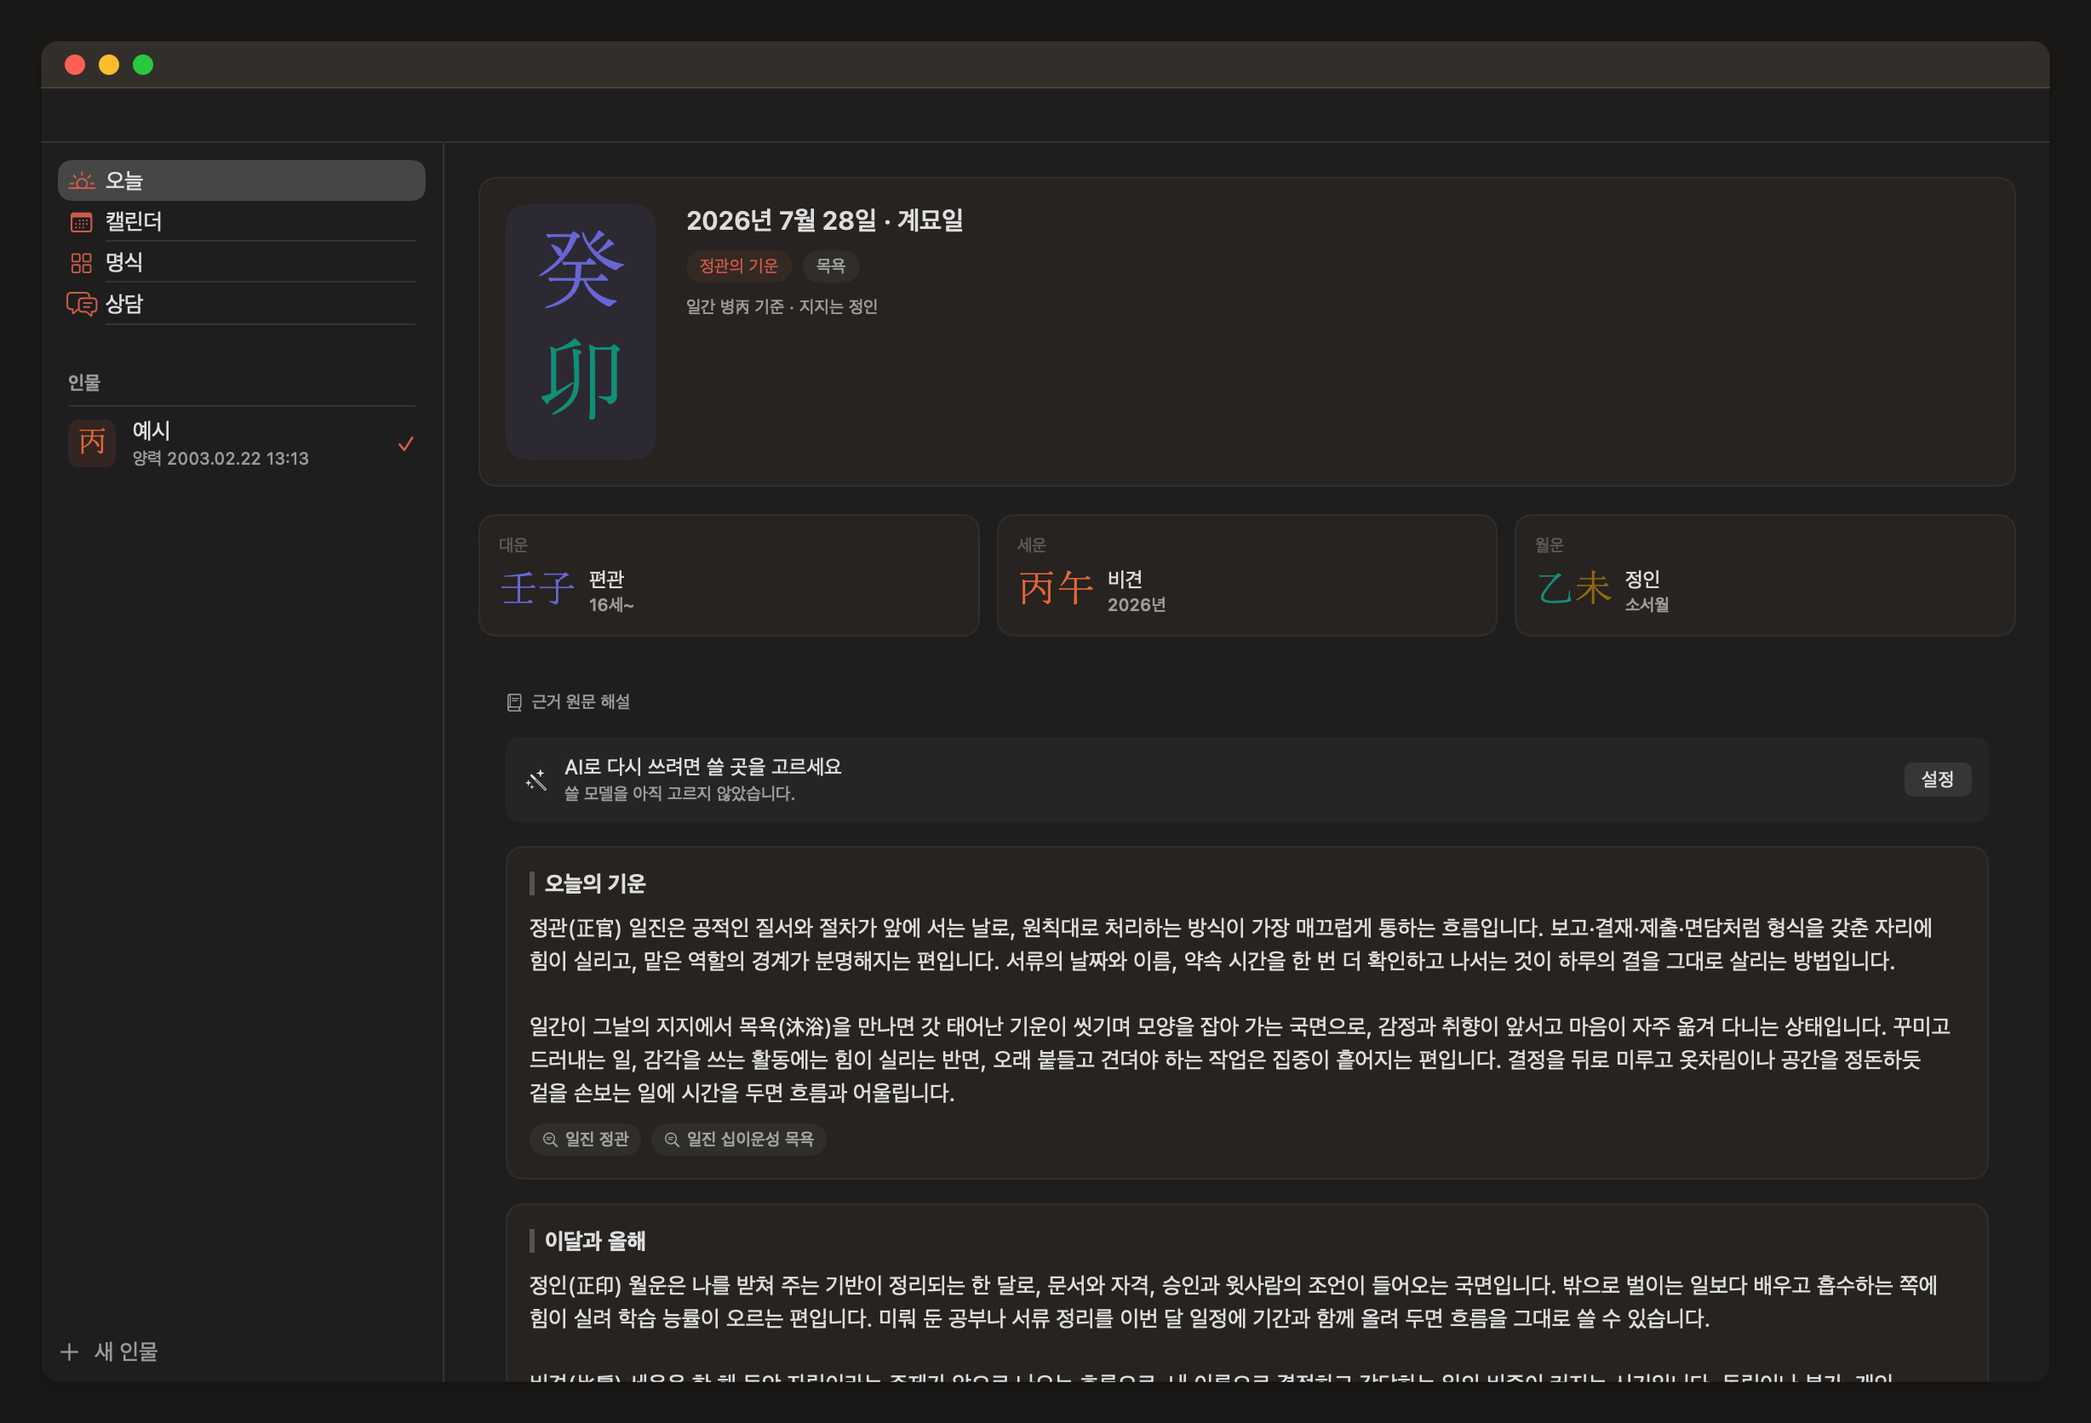
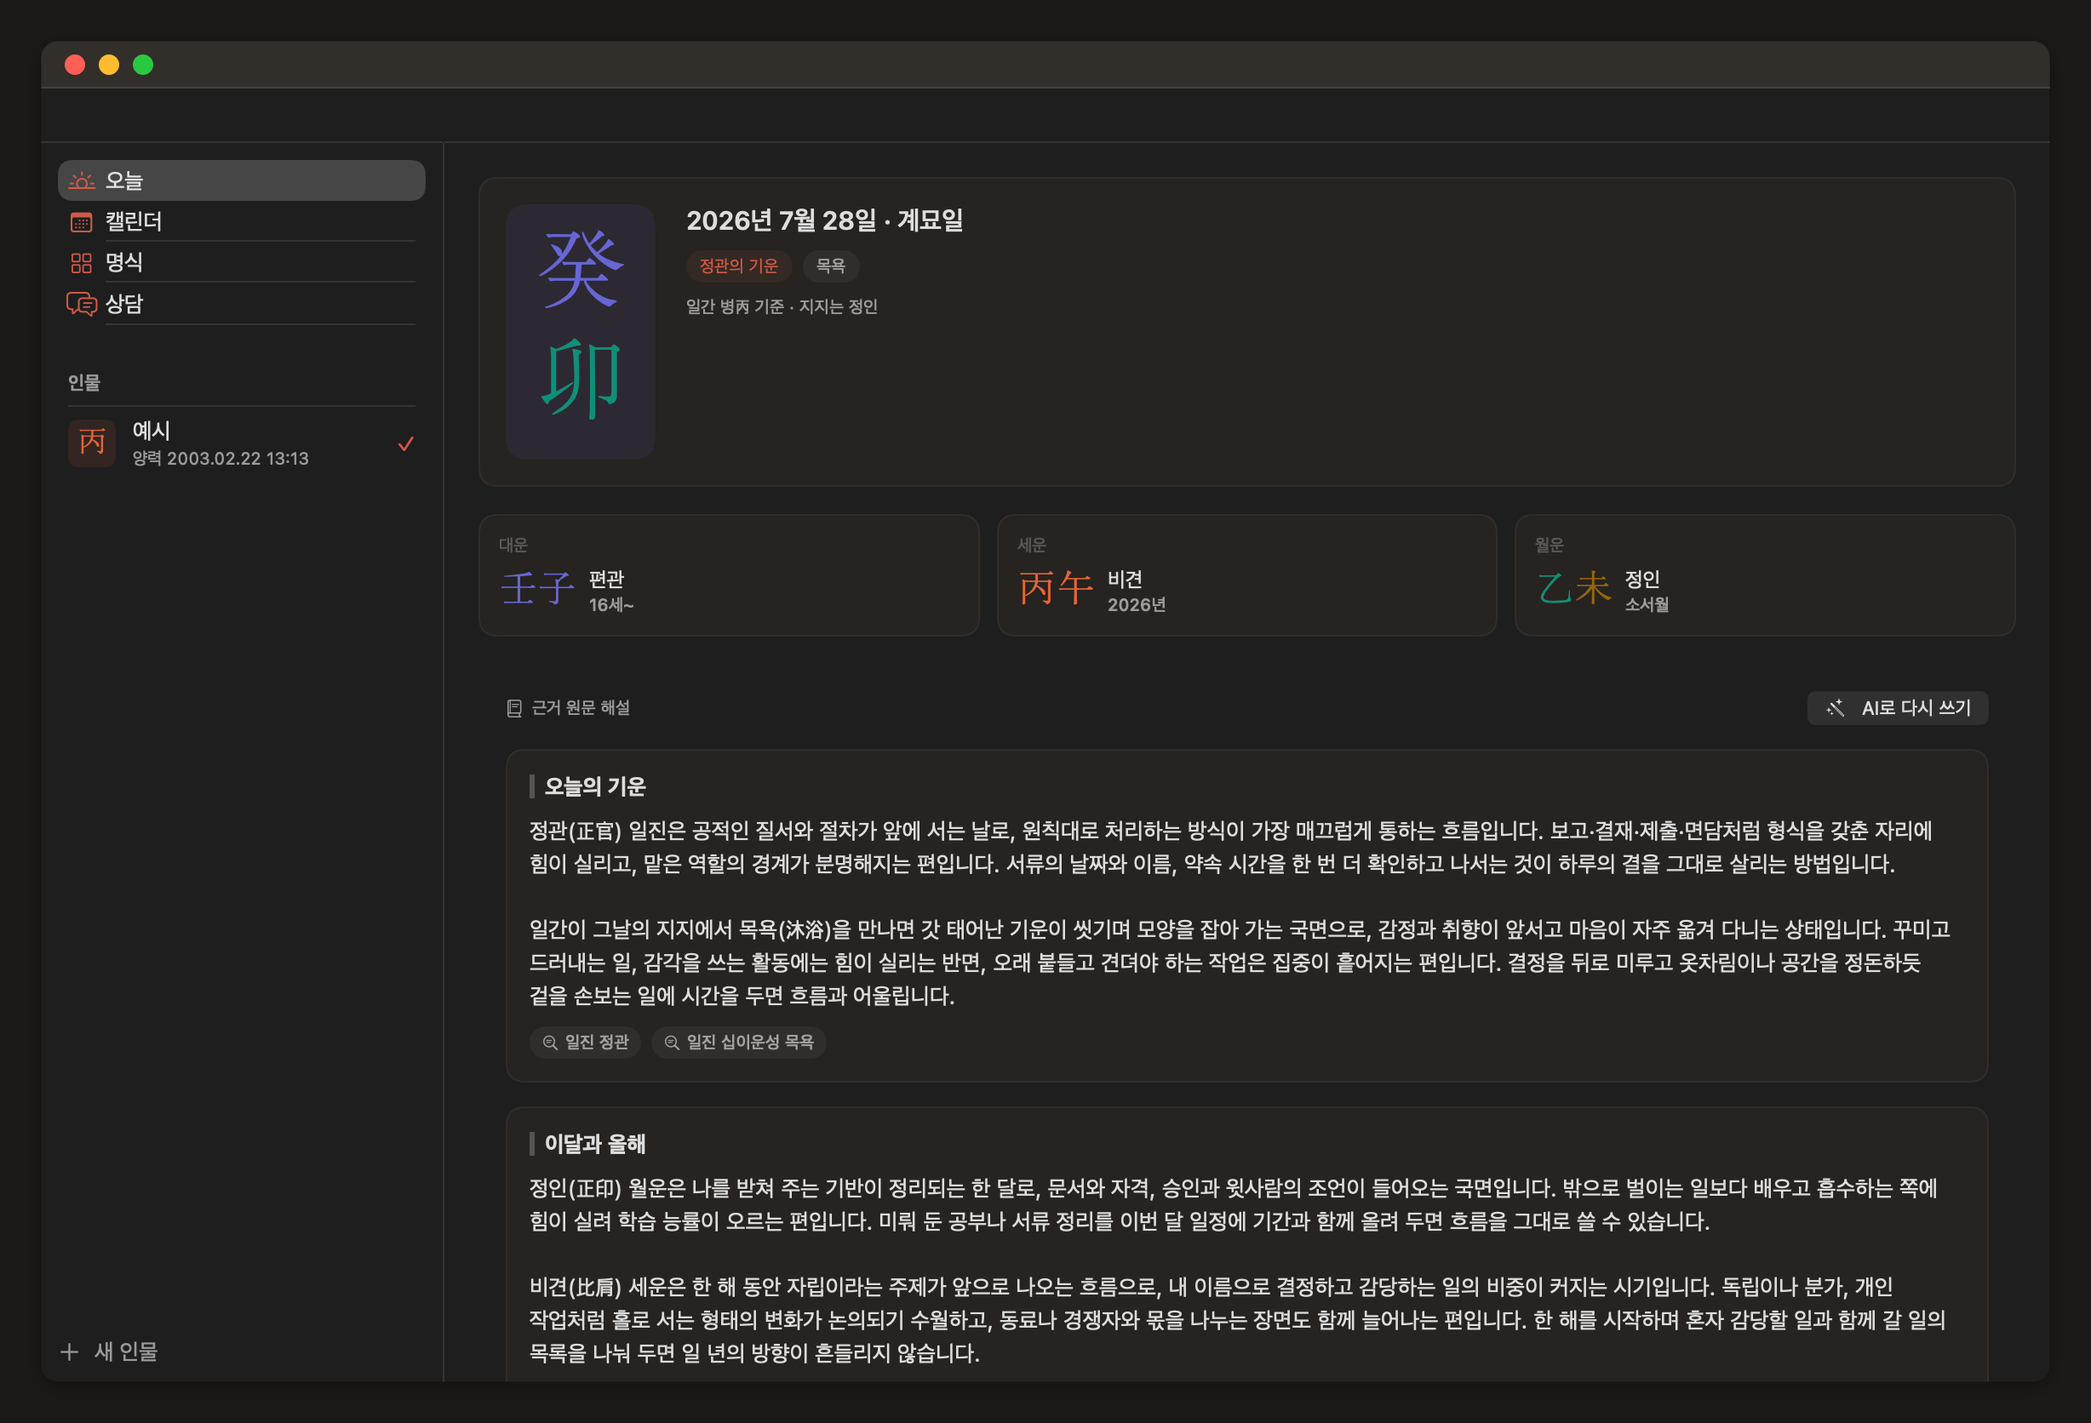
docs: 원격 제공자와 새 상담 화면에 맞춰 문서와 스크린샷을 최신화한다
## 공개 페이지의 프라이버시 서술을 고친다

`web/index.html`이 "생년월일시, 해석, 상담 기록이 네트워크로 나가지
않습니다"라고 단정하고 있었다. 0.3.0부터 조건부이고, 거짓일 때가 하필
사용자가 알아야 하는 경우다. 기본 설정에서는 참이라는 것과, 제공자를 지정한
경우 무엇이 나가고 무엇이 나가지 않는지를 나눠 적었다.

"모델은 이 Mac에서 돌아갑니다"도 같은 이유로 고쳤다. FAQ에 제공자 연결 항목을
추가하고, 출력 상한을 보내지 않는 이유를 적었다.

## 스크린샷

상담 대표 이미지가 빈 폼이었다. 답변이 있는 화면으로 바꿨다 — 이 기능의
이미지에 답이 없다는 사실 자체가 신호였다.

캡처가 스스로 모순되던 것도 고쳤다. 풀이 하단에는 "Gemma 4 E2B가 썼다"고
적혀 있는데 컴포저에는 "쓸 모델을 아직 고르지 않았습니다"가 떴다.
`ModelManager.seedForCapture()`가 메모리에만 반영하며, 사용자 설정을 읽지도
쓰지도 않는 것을 확인했다.

web 자산 네 장을 같은 파이프라인(1800px + pngquant + cwebp)으로 다시 만들었다.
처음에는 `magick PNG8`로 줄였는데 말풍선 배경에 디더링 반점이 보였다 —
마케팅 페이지에서 눈에 띈다.

## 문서

- `HACKING.md`: 구조 트리에 `RemoteLLM`을 넣고 `swift test` 명령을 적었다.
  왜 앱 타깃이 아니라 별도 패키지인지, 골든 데이터를 편집하면 안 되는 이유도.
- `CLAUDE.md` §11-1 추가 — **고를 수 없는 값은 보내지 않는다.** §9("의견이
  갈리는 지점은 설정")과 구분되는 결정이다. 이쪽은 의견이 갈리는 문제가
  아니라 앱이 알 수 없는 값이다.
- `CLAUDE.md` §25 지뢰 표에 8줄 추가. 추론 예산, Ollama가 상한을 조용히
  무시하는 것, 릴리스 노트 리터럴 표기, 캡처가 빈 PNG를 내는 두 원인,
  배선만 되고 렌더되지 않은 UI, 인용이 답과 어긋나는 경로, 타입 이름 충돌.
- README 양쪽에 추론 모델 상한 서술 추가.

컴포저 아래 한 줄에서 조사를 뺐다. 모델 이름에 양자화 표기가 들어 있어서
"Gemma 4 E2B · 4-bit이 씁니다"로 읽혔다.

Changed region(s): [[0.2476, 0.5287, 0.9283, 0.9641], [0.2476, 0.4665, 0.3094, 0.4976]]

diff --git a/web/index.html b/web/index.html
@@ -271,19 +271,22 @@
             고르는 것으로 생성이 시작되지 않습니다.</li>
           <li><b>상담은 고민을 명리 축으로 옮깁니다.</b> 그 축의 근거만으로
             풀이하고, 답변에 쓰인 근거가 표시됩니다.</li>
-          <li><b>모델은 이 Mac에서 돌아갑니다.</b> 네트워크는 모델을 내려받을
-            때만 씁니다.</li>
+          <li><b>어디서 쓸지 고르실 수 있습니다.</b> 기본은 이 Mac의 모델이고,
+            네트워크는 그것을 내려받을 때만 씁니다. 원하시면 직접 지정한
+            OpenAI 호환 제공자에게 주문할 수도 있는데, 그 경우 무엇이 어디로
+            나가는지 <b>처음 보내기 전에 원문으로</b> 보여 드립니다.</li>
         </ul>
       </div>
       <figure style="margin-top:0">
         <picture>
           <source srcset="assets/screenshot-consultation.webp" type="image/webp">
           <img src="assets/screenshot-consultation.png" width="2456" height="1672" loading="lazy"
-               alt="상담 화면. 고민을 적는 입력창 아래에 이 명식에서 이야기할 수 있는 명리 축이 칩으로 나열되어 있다.">
+               alt="상담 화면. 위에 이 상담이 쓰는 명리 축과 근거 칩이 고정되어 있고, 아래에 적은 고민과 그에 대한 풀이가 있다. 풀이 밑에는 그 답변이 실제로 쓴 근거 칩이 붙어 있다.">
         </picture>
         <figcaption>
-          상담을 여는 것과 풀이를 받는 것은 다른 행위입니다. 축을 정하고
-          근거를 고르는 데까지는 모델이 필요하지 않습니다.
+          답변마다 그 답변이 실제로 쓴 근거가 붙습니다. 상담을 여는 것과
+          풀이를 받는 것은 다른 행위이며, 축을 정하고 근거를 고르는 데까지는
+          모델이 필요하지 않습니다.
         </figcaption>
       </figure>
     </div>
@@ -398,16 +401,39 @@
 
     <details>
       <summary>제 데이터는 어디에 있습니까?</summary>
-      <div class="body"><p>이 Mac의 앱 컨테이너 안에만 있습니다. 생년월일시,
-        해석, 상담 기록이 네트워크로 나가지 않습니다. 앱은 샌드박스에서 돌고,
-        네트워크 권한은 모델 다운로드와 업데이트 확인에만 씁니다.</p></div>
+      <div class="body"><p>이 Mac의 앱 컨테이너 안에만 있습니다. 앱은
+        샌드박스에서 돌고, <b>기본 설정에서는</b> 생년월일시·해석·상담 기록이
+        네트워크로 나가지 않습니다. 네트워크 권한은 모델 다운로드와 업데이트
+        확인에만 씁니다.</p>
+        <p>직접 OpenAI 호환 제공자를 지정하신 경우에만 글이 나갑니다. 그때는
+        계산이 끝난 명식 근거와 상담에 적으신 글이 그 주소로 전송되며,
+        <b>인물 이름과 생년월일시 원본은 그때도 나가지 않습니다.</b> 처음
+        보내기 전에 실제로 나갈 글자를 그대로 보여 드리고, 이 Mac 밖으로
+        평문 http는 거부합니다. API 키는 이 Mac의 키체인에만 저장됩니다.</p></div>
     </details>
 
     <details>
       <summary>AI 모델을 꼭 내려받아야 합니까?</summary>
       <div class="body"><p>아닙니다. 규칙 엔진이 근거 원문을 그대로 조립하므로
         모델 없이도 해석이 완결됩니다. 모델은 같은 근거를 더 매끄러운 문장으로
-        엮을 때만 쓰이고, 버튼을 눌러야 동작합니다.</p></div>
+        엮을 때만 쓰이고, 버튼을 눌러야 동작합니다.</p>
+        <p>AI 문장을 원하시면서 3.6GB를 내려받고 싶지 않으시면, 이 Mac에서
+        도는 Ollama·LM Studio를 가리키거나 이미 쓰고 계신 OpenAI 호환
+        제공자를 지정하실 수도 있습니다.</p></div>
+    </details>
+
+    <details>
+      <summary>제가 쓰는 API 제공자를 연결할 수 있습니까?</summary>
+      <div class="body"><p><code>/v1/chat/completions</code>를 지원하는 OpenAI
+        호환 엔드포인트면 됩니다. 설정 → 해석에서 주소와 모델 이름, 키를
+        넣으시면 됩니다. 제공자 목록을 앱에 넣지 않았습니다 — 이름을 늘어놓으면
+        앱이 그들을 보증하는 셈이 되는데 보낸 글을 어떻게 다루는지 확인할
+        방법이 없고, 주소와 정책은 시간이 지나면 바뀌므로 번들한 목록은 조용히
+        썩습니다.</p>
+      <p>출력 토큰 상한은 기본으로 보내지 않습니다. 추론 모델은 그 한도를
+        생각과 답변에 함께 쓰기 때문에 낮게 잡으면 생각만 하다 끝나고, 같은
+        모델도 제공자 라우트에 따라 상한이 32배까지 갈려서 앱이 고를 수 있는
+        옳은 숫자가 없습니다.</p></div>
     </details>
 
     <details>

diff --git a/App/FourEight/Services/ModelManager.swift b/App/FourEight/Services/ModelManager.swift
@@ -44,7 +44,7 @@ final class ModelManager {
 
     /// 완료된 다운로드 기록 (UserDefaults).
     private var installedIDs: Set<String> {
-        get { Set(UserDefaults.standard.stringArray(forKey: "installedModels") ?? []) }
+        get { capturedInstalled ?? Set(UserDefaults.standard.stringArray(forKey: "installedModels") ?? []) }
         set { UserDefaults.standard.set(Array(newValue), forKey: "installedModels") }
     }
 
@@ -56,6 +56,23 @@ final class ModelManager {
             // 0.1.x 키 이름. 한 번 옮겨 오면 사용자는 선택을 잃지 않는다.
             ?? UserDefaults.standard.string(forKey: "activeModel")
     }
+
+    /// 스크린샷 캡처용. **UserDefaults를 건드리지 않는다.**
+    ///
+    /// 캡처가 사용자 설정을 바꾸면 안 되고, 그렇다고 모델이 없는 상태로
+    /// 찍으면 대표 이미지가 스스로 모순된다 — 풀이에는 모델 이름이 적혀
+    /// 있는데 컴포저에는 "모델을 고르지 않았습니다"가 뜬다.
+    func seedForCapture() {
+        guard let model = ModelCatalog.models.first(where: \.recommended)
+            ?? ModelCatalog.models.first
+        else { return }
+        preferredModelID = model.id
+        states[model.id] = .installed
+        capturedInstalled = [model.id]
+    }
+
+    /// 캡처에서만 채운다. 비어 있으면 UserDefaults를 본다.
+    private var capturedInstalled: Set<String>?
 
     var preferredModel: CatalogModel? {
         ModelCatalog.models.first { $0.id == preferredModelID }

diff --git a/App/FourEight/Services/ScreenshotRunner.swift b/App/FourEight/Services/ScreenshotRunner.swift
@@ -61,6 +61,11 @@ enum ScreenshotRunner {
         state.selectedPersonID = demoPerson.id
         state.options = .default
         let modelManager = ModelManager()
+        // 모델이 선택된 상태로 둔다. 그렇지 않으면 대표 이미지가 스스로
+        // 모순된다 — 풀이 하단에는 "Gemma 4 E2B가 썼다"고 적혀 있는데
+        // 컴포저에는 "쓸 모델을 아직 고르지 않았습니다"가 뜬다.
+        // 메모리에만 반영하고 사용자 설정은 건드리지 않는다.
+        modelManager.seedForCapture()
         // 캡처는 사용자의 제공자 설정을 읽지 않는다. 빈 UserDefaults를 준다.
         let remoteProvider = RemoteProviderStore(
             defaults: UserDefaults(suiteName: "com.waylake.FourEight.capture") ?? .standard

diff --git a/App/FourEight/Views/ConsultationView.swift b/App/FourEight/Views/ConsultationView.swift
@@ -812,7 +812,9 @@ struct ConsultationDetail: View {
             "근거 \(String(evidence.count))개와 최근 발언 \(String(CounselBrief.recentTurnWindow))개만 봅니다",
         ]
         if let label = writers.label, aiOffered {
-            parts.append("\(label)이 씁니다")
+            // 조사를 붙이지 않는다. 모델 이름에 양자화 표기가 들어 있어서
+            // "Gemma 4 E2B · 4-bit이 씁니다"처럼 읽힌다.
+            parts.append("작성: \(label)")
         }
         parts.append("사람도 치료도 아닙니다")
         return parts.joined(separator: " · ")

diff --git a/HACKING.md b/HACKING.md
@@ -24,9 +24,12 @@ four-eight/
 │   │   ├── Interpretation/  FactExtractor, RuleSet
 │   │   └── Resources/    rules.json (해석 규칙 60개)
 │   └── Tests/
+├── RemoteLLM/            OpenAI 호환 전송 층 (독립 패키지, Foundation만)
+│   ├── Sources/RemoteLLM/  Endpoint, Destination, SSE, ChatClient, ProviderError
+│   └── Tests/            Fixtures/에 실제 제공자 응답 골든 데이터
 ├── App/FourEight/        SwiftUI 앱
 │   ├── Models/           Person, ModelCatalog
-│   ├── Services/         SajuService, ModelManager, Interpreter
+│   ├── Services/         SajuService, Writers, Interpreter, Counselor, Secrets
 │   ├── Views/            화면
 │   └── Resources/
 ├── scripts/              코드 생성기
@@ -36,16 +39,27 @@ four-eight/
 
 `FourEight.xcodeproj`는 생성물이며 커밋하지 않습니다.
 
-## 엔진만 다루기
+## 패키지만 다루기
 
-앱을 빌드하지 않고도 엔진 작업이 가능합니다. Xcode 없이 됩니다.
+앱을 빌드하지 않고도 두 패키지 작업이 가능합니다. Xcode 없이 됩니다.
 
 ```bash
-cd SajuKit
+cd SajuKit                 # 명리 엔진
 swift build
 swift test
 swift test --filter PublishedCaseTests
+
+cd RemoteLLM               # 원격 전송 층
+swift test
 ```
+
+`RemoteLLM`을 앱 타깃이 아니라 별도 패키지로 둔 이유는 테스트입니다. 이 층에서
+틀리기 쉬운 것들(SSE 줄 경계, 멀티바이트 분할, 오류 매핑, 키 유출)은 Xcode
+없이 `swift test`로 고정되어야 합니다. 앱 타깃에 두면 그 방법이 사라집니다.
+
+`Tests/RemoteLLMTests/Fixtures/*.sse`는 실제 제공자가 보낸 바이트입니다.
+**편집하지 마십시오.** 편집하면 그 검사가 증명하는 것이 사라지고, 테스트가
+CR 유입까지 검사합니다.
 
 ## 앱 빌드
 

diff --git a/README.ko.md b/README.ko.md
@@ -153,6 +153,8 @@ open FourEight.xcodeproj
 | 이 Mac 안 (`localhost`의 Ollama·LM Studio 등) | 아니오 — 루프백입니다 | 그 서버를 직접 돌리고 있을 것 |
 | 이 Mac 밖 (OpenAI 호환 제공자) | **예** | 주소, 모델 이름, API 키 |
 
+**출력 토큰 상한을 기본으로 보내지 않습니다.** 추론 모델(DeepSeek·o 계열·Gemini 등)은 그 한도를 생각과 답변에 함께 쓰기 때문에, 낮게 잡으면 모델이 생각만 하다 끝나고 답변이 한 글자도 나오지 않으면서 요금은 나갑니다. 그리고 같은 모델도 제공자 라우트에 따라 상한이 32배까지 갈려서 앱이 고를 수 있는 옳은 숫자가 없습니다. 요금을 묶고 싶으시면 설정에서 값을 넣으실 수 있습니다.
+
 세 번째를 고르시면 **처음 보내기 전에 실제로 나갈 글자를 그대로 보여 드립니다.** 체크박스가 아니라 원문입니다. 확인은 주소(호스트)마다 한 번만 묻습니다 — 매번 물으면 읽지 않고 누르는 습관이 생기고, 그러면 확인이 있는 것이 없는 것보다 나쁩니다.
 
 두 번째는 묻지 않습니다. 루프백은 글이 기기를 벗어나지 않으므로 물을 것이 없고, 거기에도 같은 경고를 띄우면 경고가 진짜 필요한 자리에서 의미를 잃습니다.

diff --git a/README.md b/README.md
@@ -153,6 +153,8 @@ The reading is always assembled from rule source text; AI prose is an optional l
 | On this Mac (Ollama, LM Studio, … on `localhost`) | No — it is loopback | That server running locally |
 | Off this Mac (any OpenAI-compatible provider) | **Yes** | Base URL, model name, API key |
 
+**No output token cap is sent by default.** Reasoning models (DeepSeek, o-series, Gemini, …) spend that budget on thinking *and* the answer, so a low cap makes the model think itself out of room and return nothing while still billing you. The same model also varies up to 32× in output limit depending on which upstream route serves it, so there is no correct number for the app to pick. Set one in Settings if you want to bound cost.
+
 Pick the third and the app shows you **the literal text it is about to send, before it sends it.** Not a checkbox — the actual bytes. It asks once per host: asking every time teaches people to click without reading, and at that point the gate is worse than no gate.
 
 It does not ask for the second case. Loopback traffic never leaves the machine, so there is nothing to disclose, and warning there would drain the warning of meaning where it actually matters.
